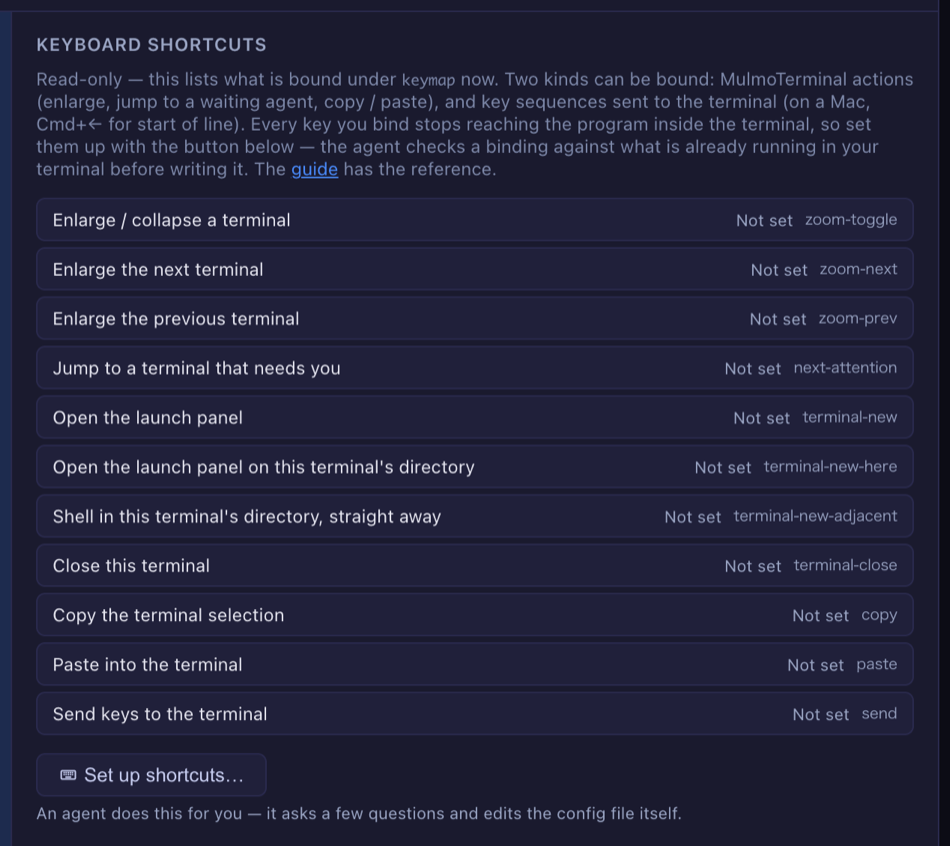
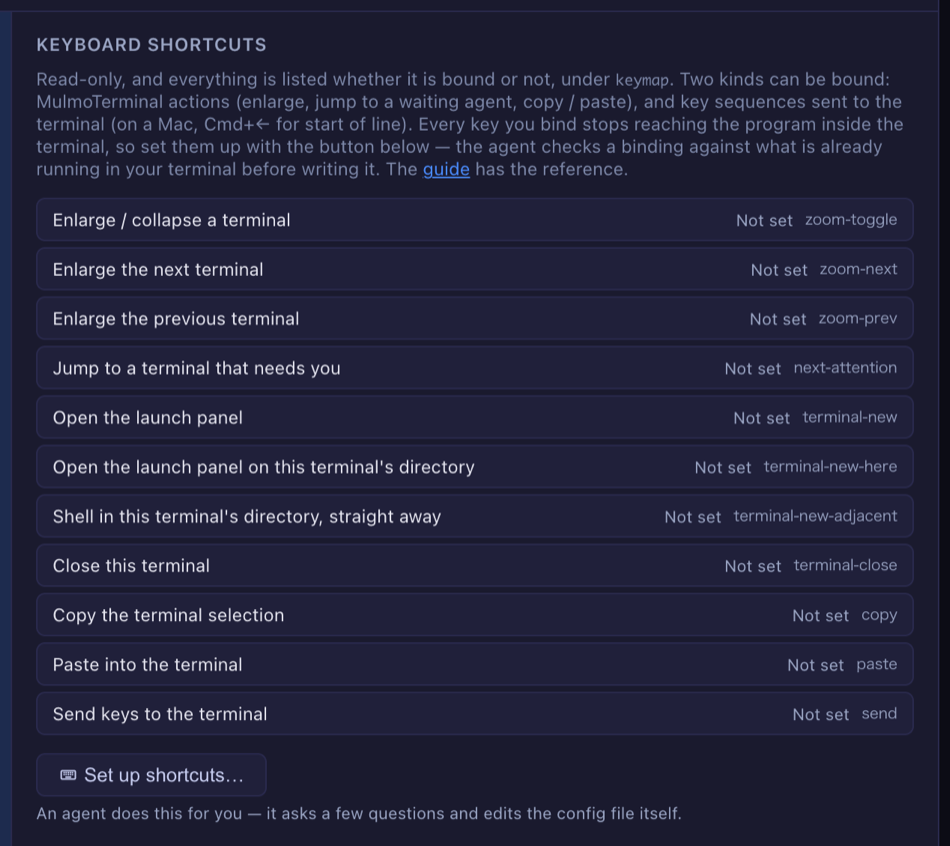
docs: recapture the screenshots — they showed copy this PR had deleted
Local codex review (CHANGES REQUESTED). The two committed PNGs were
taken at 19a89031 and still showed the intro as it read then:

  "this lists what is bound under keymap now"
  「いま keymap に割り当てられているものが出ます」

That is the exact sentence swept out of every user-facing surface an
hour later in 5fbb2578, so the images contradicted the guide text
printed beside them.

Codex named why the sweep missed them: the words are inside PNGs, so
grep cannot see them. I had verified the built bundle carried the new
strings and never checked the images.

Recaptured both from the current build. Recorded in the plan as a
standing hazard: a screenshot bakes in UI copy, changing that copy means
recapturing, and nothing in this repository can detect the drift.

Changed region(s): [[0.0305, 0.0615, 0.9463, 0.2151]]

diff --git a/plans/feat-1858-keymap-discoverability.md b/plans/feat-1858-keymap-discoverability.md
@@ -282,6 +282,25 @@ CodeRabbit の Major（Arrows が macOS で単語移動を奪う）を **SKILL.m
 ターミナルより先にキーを奪う）と、そのペアで足りる理由（拡大していなくても使えるのは `zoom-toggle`
 と `next-attention` の 2 つ）付き。
 
+### スクリーンショットが古かった（ローカル codex、grep には映らない）
+
+> grep misses it because it is embedded in PNGs.
+
+**画像は撮った時点の UI を写す。** 撮影は `19a89031`（18:44 JST）、intro を掃いたのは `5fbb2578`
+（19:49 JST）。つまり committed の PNG 2 枚は、**その 1 時間後に消した文言**（"this lists what is
+bound under `keymap` now" / 「いま `keymap` に割り当てられているものが出ます」）を写したままで、
+すぐ隣のガイド本文と矛盾していた。
+
+**掃いたつもりの grep が 0 件を返したのは、文字が PNG の中にあるから。** ビルドしたバンドルを
+grep して新しい文字列を確認したのに、画像は確認していなかった。
+
+両方を現在のビルドから撮り直した（en は "Read-only, and everything is listed whether it is bound
+or not"、ja は「読み取り専用で、割り当ての有無にかかわらず全部…」を写している）。
+
+**残る危険として記録しておく**: ドキュメントのスクリーンショットは UI の文言を焼き込むので、
+**その文言を変えたら撮り直しが要る**。テストでは検出できない —— PNG を読めるものがリポジトリに
+無い。この PR では 1 巡かけて偶然見つかったが、次は見つからないかもしれない。
+
 ### ゲート
 
 `format` / `lint` / `typecheck` / `build` / `test` すべて exit 0。
